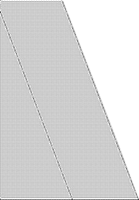
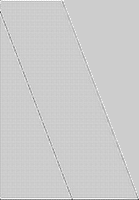
Added moving gate, pre-hover state.

Changed region(s): [[0.4604, 0.0, 1.0, 0.99]]

diff --git a/index.html b/index.html
@@ -32,42 +32,32 @@
 				<img id="sLogo"class="factionLogo"src="css/images/confederacy.png"/>
 			</div>
 			<div id="sideMenu">
+				<img class="blastdoors" src="css/images/blastdoors1.png"/>
+				<img class="blastdoors" src="css/images/blastdoors2.png"/>
 						<!-- Fighters -->
 						<div class="frame">
 							<img class="layer3r layer3" src="css/images/rebel/xwing.png"/>
 							<img class="layer3e layer3" src="css/images/empire/tief.png"/>
 							<img class="layer3or layer3" src="css/images/rebel/arc170.png"/>
 							<img class="layer3s layer3" src="css/images/empire/hyena.png"/>
-							<img class="blastdoors closed" src="css/images/blastdoors1.png"/>
-							<img class="blastdoors closed" src="css/images/blastdoors2.png"/>
-							<img class="layer1" src="css/images/layer1.png"/>
 						</div>
 						<div class="frame">
 							<img class="layer3r layer3" src="css/images/rebel/ywing.png"/>
 							<img class="layer3e layer3" src="css/images/empire/tiei.png"/>
 							<img class="layer3or layer3" src="css/images/rebel/v19.png"/>
 							<img class="layer3s layer3" src="css/images/empire/trio.png"/>
-							<img class="blastdoors closed" src="css/images/blastdoors1.png"/>
-							<img class="blastdoors closed" src="css/images/blastdoors2.png"/>
-							<img class="layer1" src="css/images/layer1.png"/>
 						</div>
 						<div class="frame">
 							<img class="layer3r layer3" src="css/images/rebel/awing.png"/>
 							<img class="layer3e layer3" src="css/images/empire/tieb.png"/>
 							<img class="layer3or layer3" src="css/images/rebel/z95.png"/>
 							<img class="layer3s layer3" src="css/images/empire/buzzdroid.png"/>
-							<img class="blastdoors closed" src="css/images/blastdoors1.png"/>
-							<img class="blastdoors closed" src="css/images/blastdoors2.png"/>
-							<img class="layer1" src="css/images/layer1.png"/>
 						</div>
 						<div class="frame">
 							<img class="layer3r layer3" src="css/images/rebel/bwing.png"/>
 							<img class="layer3e layer3" src="css/images/empire/tiev.png"/>
 							<img class="layer3or layer3" src="css/images/rebel/delta7.png"/>
 							<img class="layer3s layer3" src="css/images/empire/infiltrator.png"/>
-							<img class="blastdoors closed" src="css/images/blastdoors1.png"/>
-							<img class="blastdoors closed" src="css/images/blastdoors2.png"/>
-							<img class="layer1" src="css/images/layer1.png"/>
 						</div>
 						<!-- Cruisers -->
 						<div class="frame">
@@ -75,36 +65,24 @@
 							<img class="layer3e layer3" src="css/images/empire/executor.png"/>
 							<img class="layer3or layer3" src="css/images/rebel/repattackcruiser.png"/>
 							<img class="layer3s layer3" src="css/images/empire/sepbattleship.png"/>
-							<img class="blastdoors closed" src="css/images/blastdoors1.png"/>
-							<img class="blastdoors closed" src="css/images/blastdoors2.png"/>
-							<img class="layer1" src="css/images/layer1.png"/>
 						</div>
 						<div class="frame">
 							<img class="layer3r layer3" src="css/images/rebel/nebulon.png"/>
 							<img class="layer3e layer3" src="css/images/empire/stardestroyer.png"/>
 							<img class="layer3or layer3" src="css/images/rebel/repcruiser.png"/>
 							<img class="layer3s layer3" src="css/images/empire/sepdreadnought.png"/>
-							<img class="blastdoors closed" src="css/images/blastdoors1.png"/>
-							<img class="blastdoors closed" src="css/images/blastdoors2.png"/>
-							<img class="layer1" src="css/images/layer1.png"/>
 						</div>
 						<div class="frame">
 							<img class="layer3r layer3" src="css/images/rebel/korelian.png"/>
 							<img class="layer3e layer3" src="css/images/empire/interdictor.png"/>
 							<img class="layer3or layer3" src="css/images/rebel/repfrigate.png"/>
 							<img class="layer3s layer3" src="css/images/empire/sepsupply.png"/>
-							<img class="blastdoors closed" src="css/images/blastdoors1.png"/>
-							<img class="blastdoors closed" src="css/images/blastdoors2.png"/>
-							<img class="layer1" src="css/images/layer1.png"/>
 						</div>
 						<div class="frame">
 							<img class="layer3r layer3" src="css/images/rebel/transport.png"/>
 							<img class="layer3e layer3" src="css/images/empire/lightcruiser.png"/>
 							<img class="layer3or layer3" src="css/images/rebel/repattackgunship.png"/>
-							<img/>
-							<img class="blastdoors closed" src="css/images/blastdoors1.png"/>
-							<img class="blastdoors closed" src="css/images/blastdoors2.png"/>
-							<img class="layer1" src="css/images/layer1.png"/>
+							<img/>	
 						</div>
 			</div>
 			<div class="empty">
@@ -114,7 +92,7 @@
 		<div class="row">
 			<div class="empty">
 			</div>
-			<div class="info">
+			<div id="info">
 			</div>
 			<div class="empty">
 			</div>

diff --git a/css/style.css b/css/style.css
@@ -1,16 +1,17 @@
-div {
-	height: 200px;
-}
+
 body {
 	background-image: url("images/bg.jpg");
 }
 #container {
-	transform: translate(0%, 10%);
+	position: relative;
+	left: 50%;
+	transform: translate(-50%, 10%);
 	height: 800px;
-	width: 100%;
+	width: 1000px;
 }
 .empty {
 	width: 10%;
+	height: 100%;
 }
 .row *{
 	float: left;
@@ -21,15 +22,18 @@ body {
 }
 #header {
 	width: 80%;
+	height: 100%;
 }
 #header img{
-	height: 75%;
+	width: 49%;
 	position: relative;
 	top: 50%;
 	transform: translateY(-50%);
 }
 #header div {
 	height: 100%;
+	width: 50%;
+	overflow: hidden;
 }
 #intro {
 	box-sizing: border-box;
@@ -39,22 +43,22 @@ body {
 	color: #FAE91E;
 	font-family: impact;
 	padding: 5px;
-	font-size: 25px;
+	font-size: 18px;
 }
 .info {
 	width: 80%;
 }
 /* Second row */
 .row:nth-child(2) {
-	height: 50%;
-	margin-top: 15px;
+	height: 32%;
+	margin-top: 4px;
 }
 .factionLogo:hover {
 	opacity: 0.5;
 }
 #menu {
-	width: 25%;
-	height: auto;
+	width: auto;
+	height: 100%;
 }
 #menu img {
 	width: 50%;
@@ -64,8 +68,35 @@ body {
 	clear: left;
 }
 #sideMenu {
-	width: 55%;
+	width: 52%;
 	height: 100%;
+	margin-left: 4px;
+	border: 5px solid #FAE91E;
+	border-radius: 10px;
+	position: relative;
+	overflow: hidden;
+}
+#sideMenu img:not(.blastdoors){
+	width: 90%;
+	border: 0px solid black;
+	border-radius: 50%;
+}
+#sideMenu img:hover:not(.blastdoors) {
+	width: 95%;
+	border: 3px solid #FAE91E;
+	border-radius: 50%;
+}
+.blastdoors {
+	position: absolute;
+	width: 50%;
+	height: 100%;
+	border: 0px solid black;
+	border-radius: 0px;
+	float: left;
+	z-index: 10;
+}
+.blastdoors:nth-child(2) {
+	right: 0%;
 }
 .frame {
 	height: 50%;
@@ -76,21 +107,29 @@ body {
 	overflow: hidden;
 	float: right
 }
-.blastdoors {
-	position: absolute;
-	z-index: 3;
-}
-.blastdoors:nth-child(6) {
-	top: 0%;
-	right: 0%;
-	display: inline-block;
-}
+
 .layer1 {
 	position: absolute;
 	z-index: 4;
 }
 .layer3r, .layer3e, .layer3or, .layer3s {
 	position: absolute;
+	top: 50%;
+	left: 50%;
+	transform: translate(-50%, -50%);
 	z-index: 2;
 	display: none;
+}
+/* Third row */
+.row:nth-child(3) {
+	height: 32%;
+	margin-top: 14px;
+	text-align: center;	
+}
+#info {
+	width: 77%;
+	height: 100%;
+	border: 5px solid #FAE91E;
+	border-radius: 10px;
+	margin-left: 10px;
 }

diff --git a/js/main.js b/js/main.js
@@ -1,6 +1,7 @@
 // Blastdoors
-var $firstBlast = $(".blastdoors:nth-child(5)");
-var $secondBlast = $(".blastdoors:nth-child(6)");
+var $firstBlast = $(".blastdoors:nth-child(1)");
+var $secondBlast = $(".blastdoors:nth-child(2)");
+var $blastWidth = $firstBlast.width();
 var $closed = $firstBlast.hasClass("closed");
 // Layers
 var $layer3r = $(".layer3r");
@@ -17,10 +18,10 @@ var $main = $(".main");
 // Functions
 var open = function() {
 	$firstBlast.animate({
-			left: "-100px"
+			left: -$blastWidth
 		}, 2000);
 	$secondBlast.animate({
-		right: "-100px"
+		right: -$blastWidth
 	}, 2000);
 	$firstBlast.removeClass("closed");
 }
